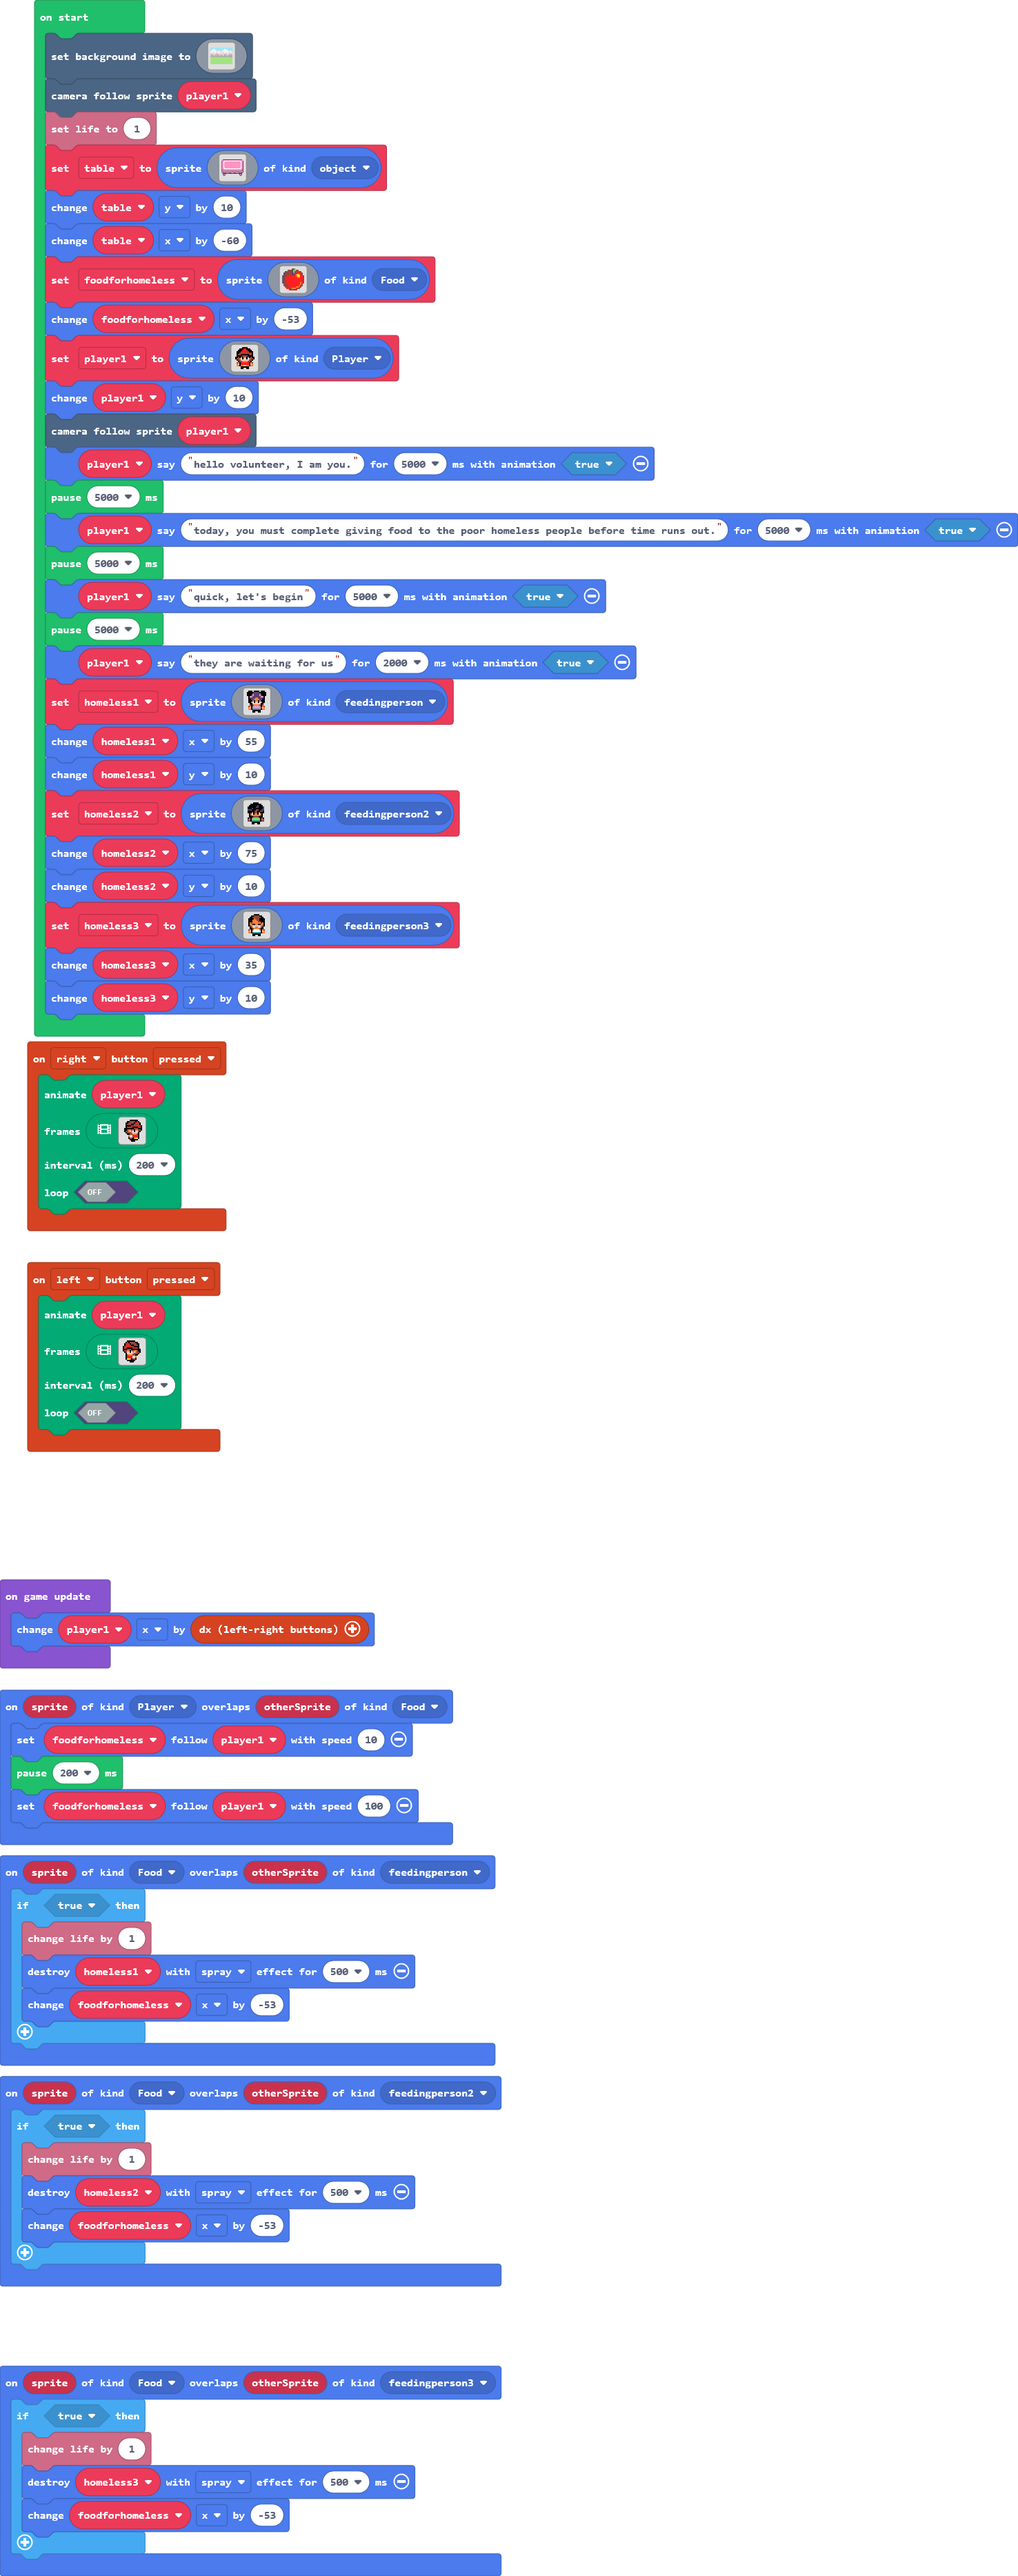
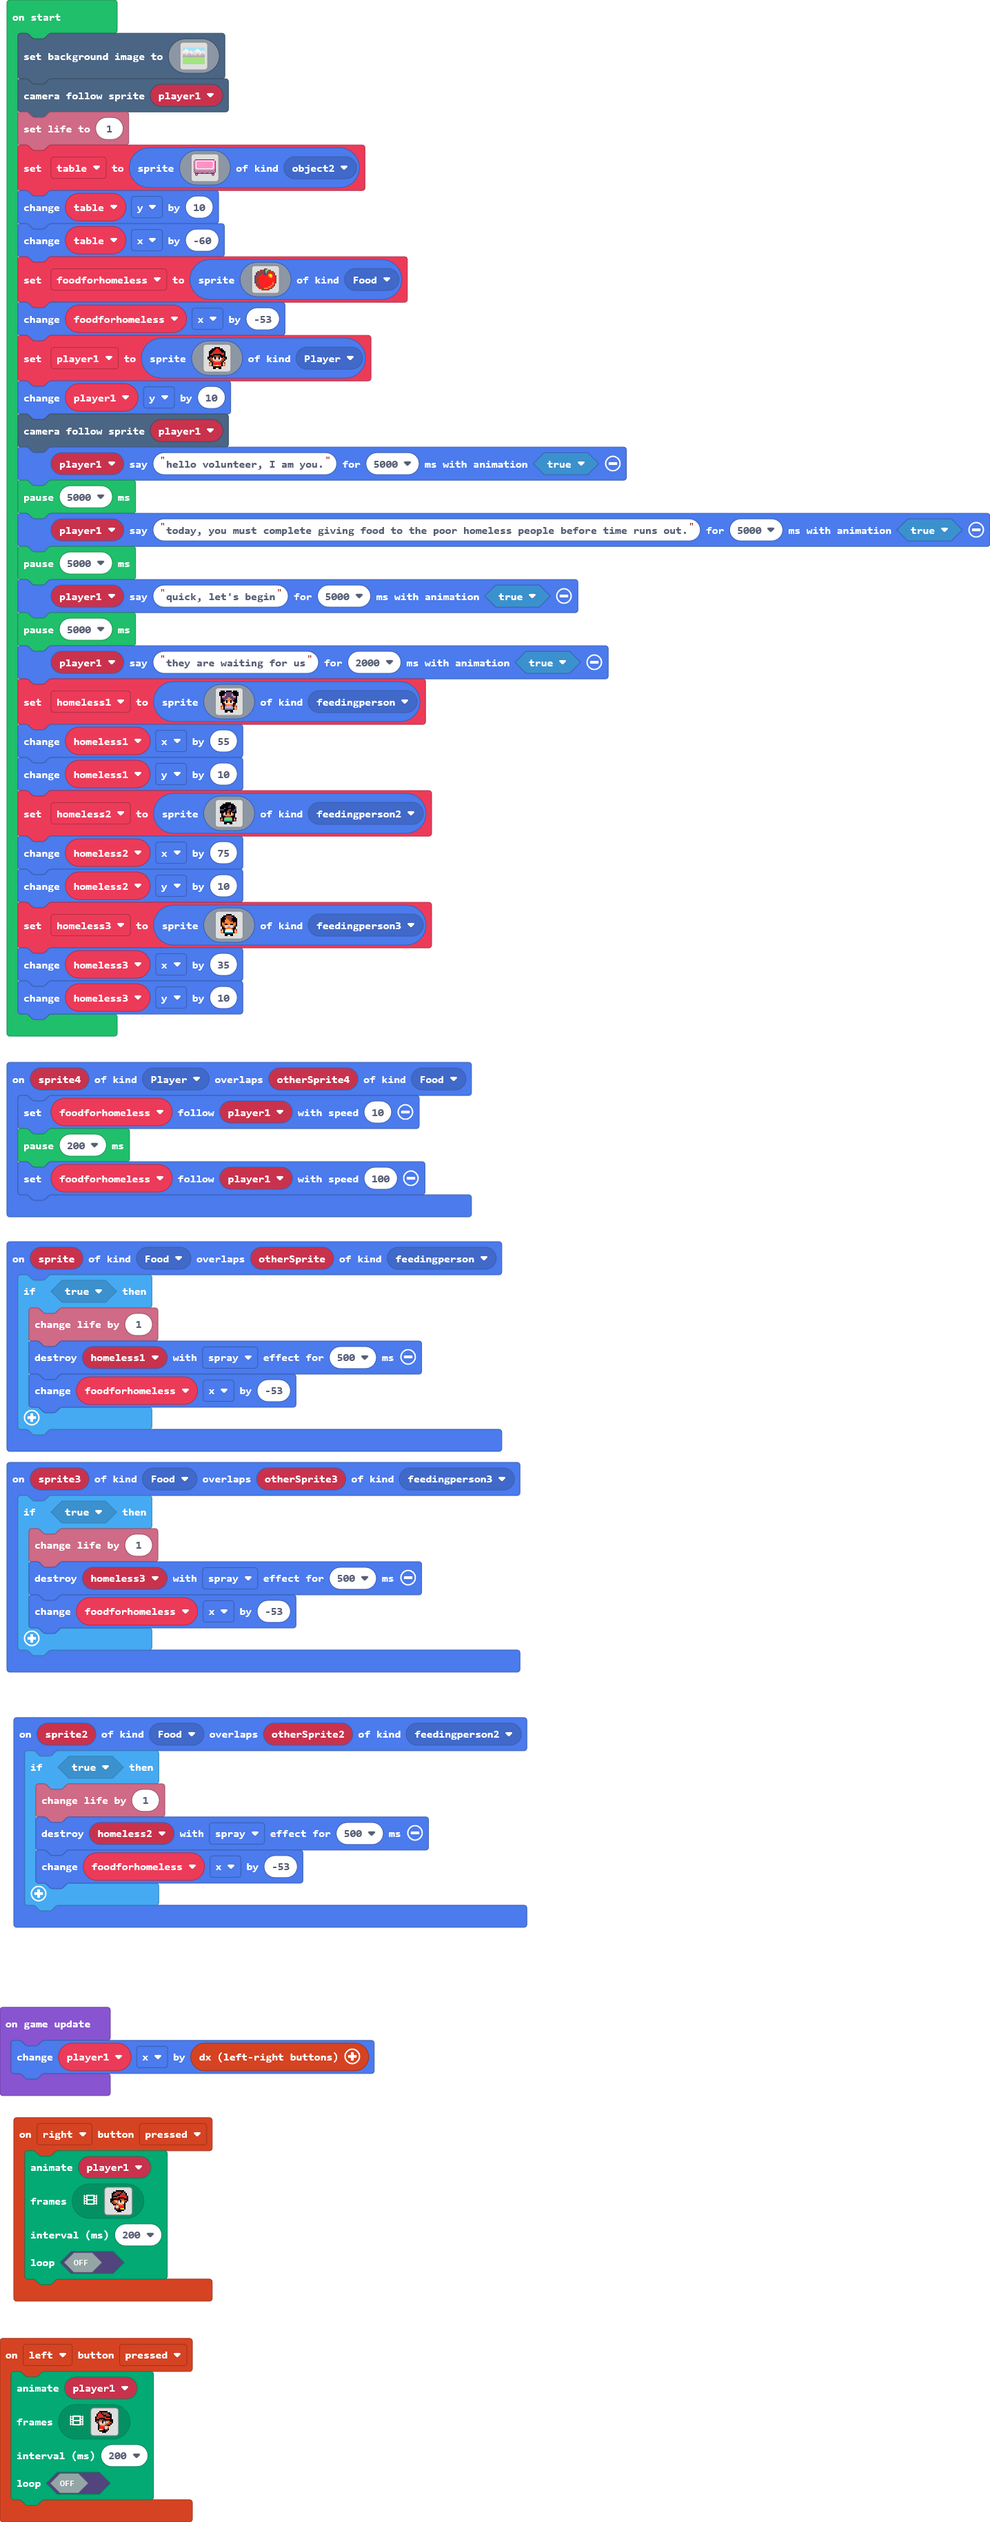
Update main.blocks, main.ts, main.py

Changed region(s): [[0.0, 0.0, 1.0, 1.0]]

diff --git a/main.ts b/main.ts
@@ -1,5 +1,5 @@
 namespace SpriteKind {
-    export const object = SpriteKind.create()
+    export const object2 = SpriteKind.create()
     export const feedingperson = SpriteKind.create()
     export const feedingperson2 = SpriteKind.create()
     export const feedingperson3 = SpriteKind.create()
@@ -11,12 +11,10 @@ sprites.onOverlap(SpriteKind.Food, SpriteKind.feedingperson, function (sprite, o
         foodforhomeless.x += -53
     }
 })
-sprites.onOverlap(SpriteKind.Food, SpriteKind.feedingperson2, function (sprite, otherSprite) {
-    if (true) {
-        info.changeLifeBy(1)
-        sprites.destroy(homeless2, effects.spray, 500)
-        foodforhomeless.x += -53
-    }
+sprites.onOverlap(SpriteKind.Player, SpriteKind.Food, function (sprite4, otherSprite4) {
+    foodforhomeless.follow(player1, 10)
+    pause(200)
+    foodforhomeless.follow(player1, 100)
 })
 controller.left.onEvent(ControllerButtonEvent.Pressed, function () {
     animation.runImageAnimation(
@@ -26,6 +24,13 @@ controller.left.onEvent(ControllerButtonEvent.Pressed, function () {
     false
     )
 })
+sprites.onOverlap(SpriteKind.Food, SpriteKind.feedingperson3, function (sprite3, otherSprite3) {
+    if (true) {
+        info.changeLifeBy(1)
+        sprites.destroy(homeless3, effects.spray, 500)
+        foodforhomeless.x += -53
+    }
+})
 controller.right.onEvent(ControllerButtonEvent.Pressed, function () {
     animation.runImageAnimation(
     player1,
@@ -34,17 +39,12 @@ controller.right.onEvent(ControllerButtonEvent.Pressed, function () {
     false
     )
 })
-sprites.onOverlap(SpriteKind.Food, SpriteKind.feedingperson3, function (sprite, otherSprite) {
+sprites.onOverlap(SpriteKind.Food, SpriteKind.feedingperson2, function (sprite2, otherSprite2) {
     if (true) {
         info.changeLifeBy(1)
-        sprites.destroy(homeless3, effects.spray, 500)
+        sprites.destroy(homeless2, effects.spray, 500)
         foodforhomeless.x += -53
     }
-})
-sprites.onOverlap(SpriteKind.Player, SpriteKind.Food, function (sprite, otherSprite) {
-    foodforhomeless.follow(player1, 10)
-    pause(200)
-    foodforhomeless.follow(player1, 100)
 })
 let homeless3: Sprite = null
 let homeless2: Sprite = null
@@ -54,7 +54,7 @@ let player1: Sprite = null
 scene.setBackgroundImage(assets.image`bg`)
 scene.cameraFollowSprite(player1)
 info.setLife(1)
-let table = sprites.create(assets.image`table`, SpriteKind.object)
+let table = sprites.create(assets.image`table`, SpriteKind.object2)
 table.y += 10
 table.x += -60
 foodforhomeless = sprites.create(assets.image`food`, SpriteKind.Food)

diff --git a/main.py b/main.py
@@ -19,14 +19,23 @@ def on_on_overlap2(sprite2, otherSprite2):
         foodforhomeless.x += -53
 sprites.on_overlap(SpriteKind.food, SpriteKind.feedingperson2, on_on_overlap2)
 
-def on_right_repeated():
+def on_left_pressed():
+    animation.run_image_animation(player1,
+        assets.animation("""
+            right-animation
+        """),
+        200,
+        False)
+controller.left.on_event(ControllerButtonEvent.PRESSED, on_left_pressed)
+
+def on_right_pressed():
     animation.run_image_animation(player1,
         assets.animation("""
             leftt-animation
         """),
         200,
         False)
-controller.right.on_event(ControllerButtonEvent.REPEATED, on_right_repeated)
+controller.right.on_event(ControllerButtonEvent.PRESSED, on_right_pressed)
 
 def on_on_overlap3(sprite3, otherSprite3):
     if True:
@@ -40,15 +49,6 @@ def on_on_overlap4(sprite4, otherSprite4):
     pause(200)
     foodforhomeless.follow(player1, 100)
 sprites.on_overlap(SpriteKind.player, SpriteKind.food, on_on_overlap4)
-
-def on_left_repeated():
-    animation.run_image_animation(player1,
-        assets.animation("""
-            right-animation
-        """),
-        200,
-        False)
-controller.left.on_event(ControllerButtonEvent.REPEATED, on_left_repeated)
 
 homeless3: Sprite = None
 homeless2: Sprite = None
